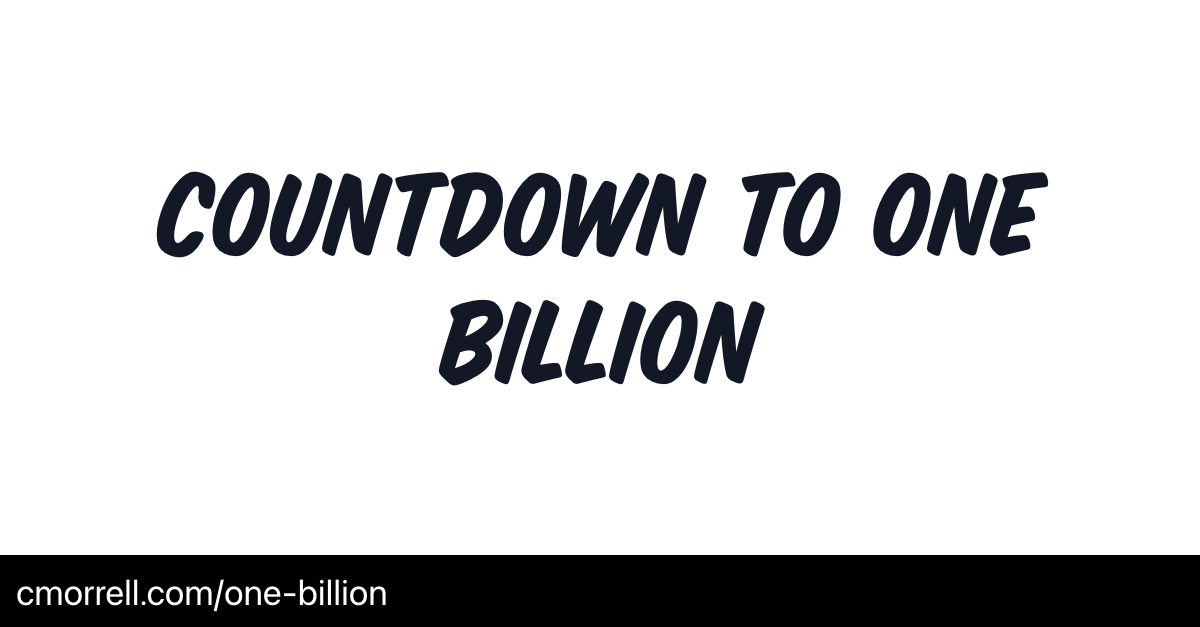
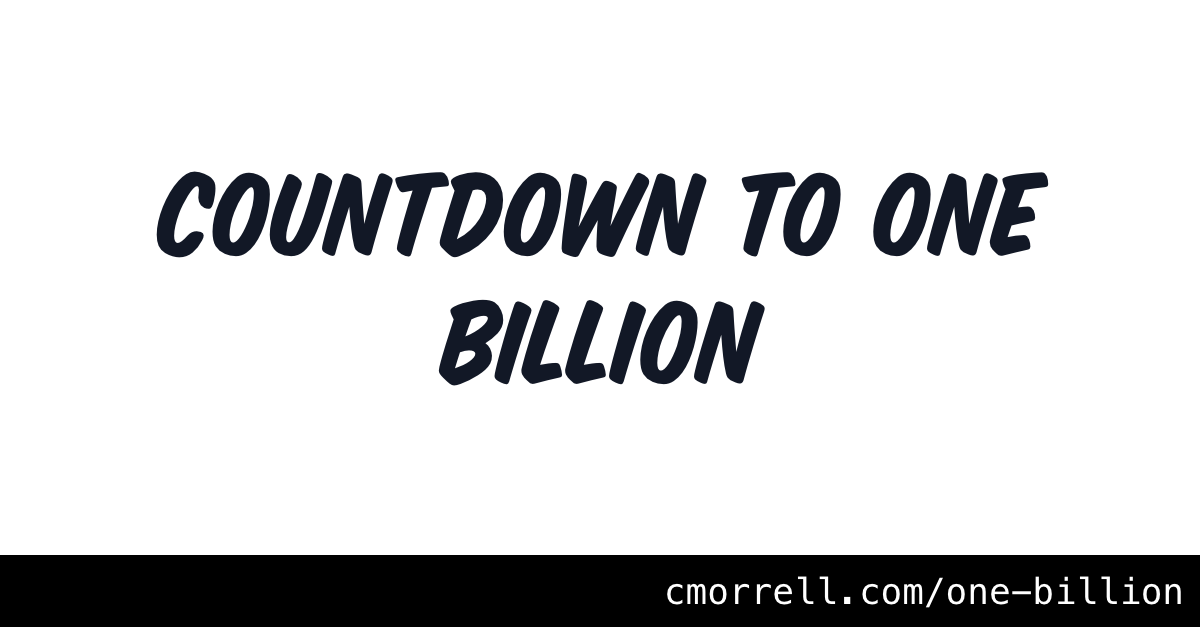
Better open graph

Changed region(s): [[0.555, 0.9091, 0.9867, 0.9697], [0.0, 0.9091, 0.3392, 0.9697]]

diff --git a/resources/views/components/layout.blade.php b/resources/views/components/layout.blade.php
@@ -1,8 +1,10 @@
 @props([
 	'title' => 'Chris Morrell',
-	'og' => null,
+	'ogTitle' => null,
+	'ogDescription' => '',
 ])
-<!DOCTYPE html>
+	
+	<!DOCTYPE html>
 <html lang="{{ str_replace('_', '-', app()->getLocale()) }}">
 <head>
 	<meta charset="utf-8">
@@ -10,77 +12,92 @@
 	<title>{{ $title }}</title>
 	@vite(['resources/css/app.css', 'resources/js/app.js'])
 	<script defer data-domain="cmorrell.com" src="https://plausible.io/js/script.js"></script>
-	{{ $meta ?? null }}
-	@if($og)
-		<meta property="og:url" content="{{ url()->current() }}">
-		<meta property="og:type" content="website">
-		<meta property="og:title" content="{{ $title }}">
-		<meta property="og:image" content="https://cmorrell.com/opengraph/{{ $og }}.png">
-	
-		<meta name="twitter:card" content="summary_large_image">
-		<meta property="twitter:domain" content="cmorrell.com">
-		<meta property="twitter:url" content="{{ url()->current() }}">
-		<meta name="twitter:title" content="{{ $title }}">
-		<meta name="twitter:image" content="https://cmorrell.com/opengraph/{{ $og }}.png">
+	@if($slug)
+		<meta property="og:url" content="{{ url()->current() }}" />
+		<meta property="og:type" content="website" />
+		<meta property="og:title" content="{{ $ogTitle ?? $title }}" />
+		<meta property="og:description" content="{{ $ogDescription }}" />
+		<meta property="og:image" content="https://cmorrell.com/opengraph/{{ $slug }}.png" />
+		<meta name="twitter:card" content="summary_large_image" />
+		<meta property="twitter:domain" content="cmorrell.com" />
+		<meta property="twitter:url" content="{{ url()->current() }}" />
+		<meta name="twitter:title" content="{{ $ogTitle ?? $title }}" />
+		<meta name="twitter:description" content="{{ $ogDescription }}" />
+		<meta name="twitter:image" content="https://cmorrell.com/opengraph/{{ $slug }}.png" />
 	@endif
 </head>
-<body class="antialiased">
-<div class="flex flex-col min-h-screen antialiased">
-	<header class="bg-gray-900 text-white">
-		<div class="container mx-auto p-4 flex items-center">
-			<h1 style="margin: 0">
-				<a href="{{ url('/') }}" class="text-white hover:underline">
-					Chris Morrell
-				</a>
-			</h1>
-			<div class="ml-auto flex -mx-1">
-				<a class="mx-1 no-underline opacity-75 hover:opacity-100"
-				   href="https://rtsn.dev/@chris"
-				   target="_blank"
-				   rel="me"
-				   title="Chris Morrell on Mastodon"
-				>
-					<svg class="h-6 w-6 fill-current" role="img" viewBox="0 0 24 24" xmlns="http://www.w3.org/2000/svg"><title>Mastodon</title>
-						<path d="M23.268 5.313c-.35-2.578-2.617-4.61-5.304-5.004C17.51.242 15.792 0 11.813 0h-.03c-3.98 0-4.835.242-5.288.309C3.882.692 1.496 2.518.917 5.127.64 6.412.61 7.837.661 9.143c.074 1.874.088 3.745.26 5.611.118 1.24.325 2.47.62 3.68.55 2.237 2.777 4.098 4.96 4.857 2.336.792 4.849.923 7.256.38.265-.061.527-.132.786-.213.585-.184 1.27-.39 1.774-.753a.057.057 0 0 0 .023-.043v-1.809a.052.052 0 0 0-.02-.041.053.053 0 0 0-.046-.01 20.282 20.282 0 0 1-4.709.545c-2.73 0-3.463-1.284-3.674-1.818a5.593 5.593 0 0 1-.319-1.433.053.053 0 0 1 .066-.054c1.517.363 3.072.546 4.632.546.376 0 .75 0 1.125-.01 1.57-.044 3.224-.124 4.768-.422.038-.008.077-.015.11-.024 2.435-.464 4.753-1.92 4.989-5.604.008-.145.03-1.52.03-1.67.002-.512.167-3.63-.024-5.545zm-3.748 9.195h-2.561V8.29c0-1.309-.55-1.976-1.67-1.976-1.23 0-1.846.79-1.846 2.35v3.403h-2.546V8.663c0-1.56-.617-2.35-1.848-2.35-1.112 0-1.668.668-1.67 1.977v6.218H4.822V8.102c0-1.31.337-2.35 1.011-3.12.696-.77 1.608-1.164 2.74-1.164 1.311 0 2.302.5 2.962 1.498l.638 1.06.638-1.06c.66-.999 1.65-1.498 2.96-1.498 1.13 0 2.043.395 2.74 1.164.675.77 1.012 1.81 1.012 3.12z" />
-					</svg>
-				</a>
-				<a class="mx-1 no-underline opacity-75 hover:opacity-100"
-				   href="https://twitter.com/inxilpro"
-				   target="_blank"
-				   rel="noopener noreferrer"
-				   title="Chris Morrell on Twitter"
-				>
-					<svg class="h-6 w-6 fill-current" role="img" viewBox="0 0 24 24" xmlns="http://www.w3.org/2000/svg"><title>Twitter</title>
-						<path d="M23.953 4.57a10 10 0 01-2.825.775 4.958 4.958 0 002.163-2.723c-.951.555-2.005.959-3.127 1.184a4.92 4.92 0 00-8.384 4.482C7.69 8.095 4.067 6.13 1.64 3.162a4.822 4.822 0 00-.666 2.475c0 1.71.87 3.213 2.188 4.096a4.904 4.904 0 01-2.228-.616v.06a4.923 4.923 0 003.946 4.827 4.996 4.996 0 01-2.212.085 4.936 4.936 0 004.604 3.417 9.867 9.867 0 01-6.102 2.105c-.39 0-.779-.023-1.17-.067a13.995 13.995 0 007.557 2.209c9.053 0 13.998-7.496 13.998-13.985 0-.21 0-.42-.015-.63A9.935 9.935 0 0024 4.59z" />
-					</svg>
-				</a>
-				<a class="mx-1 no-underline opacity-75 hover:opacity-100"
-				   href="https://github.com/inxilpro/"
-				   target="_blank"
-				   rel="noopener noreferrer"
-				   title="Chris Morrell on Github"
-				>
-					<svg class="h-6 w-6 fill-current" role="img" viewBox="0 0 24 24" xmlns="http://www.w3.org/2000/svg"><title>GitHub</title>
-						<path d="M12 .297c-6.63 0-12 5.373-12 12 0 5.303 3.438 9.8 8.205 11.385.6.113.82-.258.82-.577 0-.285-.01-1.04-.015-2.04-3.338.724-4.042-1.61-4.042-1.61C4.422 18.07 3.633 17.7 3.633 17.7c-1.087-.744.084-.729.084-.729 1.205.084 1.838 1.236 1.838 1.236 1.07 1.835 2.809 1.305 3.495.998.108-.776.417-1.305.76-1.605-2.665-.3-5.466-1.332-5.466-5.93 0-1.31.465-2.38 1.235-3.22-.135-.303-.54-1.523.105-3.176 0 0 1.005-.322 3.3 1.23.96-.267 1.98-.399 3-.405 1.02.006 2.04.138 3 .405 2.28-1.552 3.285-1.23 3.285-1.23.645 1.653.24 2.873.12 3.176.765.84 1.23 1.91 1.23 3.22 0 4.61-2.805 5.625-5.475 5.92.42.36.81 1.096.81 2.22 0 1.606-.015 2.896-.015 3.286 0 .315.21.69.825.57C20.565 22.092 24 17.592 24 12.297c0-6.627-5.373-12-12-12" />
-					</svg>
-				</a>
-			</div>
+@if(app()->isLocal() && 'render' === request('og'))
+	<body class="h-full w-full font-sans text-gray-900 antialiased">
+	
+	<div id="og-image" class="w-[1200px] h-[627px] bg-white mx-auto my-24 flex flex-col">
+		<h1 class="mx-auto text-9xl font-slant flex-1 flex items-center justify-center text-center px-10">
+			{{ str($ogTitle ?? $title)->beforeLast('- Chris Morrell')->trim() }}
+		</h1>
+		<div class="bg-black p-4 text-white font-mono mt-auto text-4xl text-right">
+			cmorrell.com{{ request()->path() === '/' ? '' : '/'.request()->path() }}
 		</div>
-	</header>
-	<main class="flex-1">
-		@if(isset($main) && $main->isNotEmpty())
-			{{ $main }}
-		@else
-			<div class="container mx-auto p-4">
-				{{ $slot }}
+	</div>
+	
+	</body>
+@else
+	<body class="antialiased">
+	<div class="flex flex-col min-h-screen antialiased">
+		<header class="bg-gray-900 text-white">
+			<div class="container mx-auto p-4 flex items-center">
+				<h1 style="margin: 0">
+					<a href="{{ url('/') }}" class="text-white hover:underline">
+						Chris Morrell
+					</a>
+				</h1>
+				<div class="ml-auto flex -mx-1">
+					<a class="mx-1 no-underline opacity-75 hover:opacity-100"
+					   href="https://rtsn.dev/@chris"
+					   target="_blank"
+					   rel="me"
+					   title="Chris Morrell on Mastodon"
+					>
+						<svg class="h-6 w-6 fill-current" role="img" viewBox="0 0 24 24" xmlns="http://www.w3.org/2000/svg"><title>Mastodon</title>
+							<path d="M23.268 5.313c-.35-2.578-2.617-4.61-5.304-5.004C17.51.242 15.792 0 11.813 0h-.03c-3.98 0-4.835.242-5.288.309C3.882.692 1.496 2.518.917 5.127.64 6.412.61 7.837.661 9.143c.074 1.874.088 3.745.26 5.611.118 1.24.325 2.47.62 3.68.55 2.237 2.777 4.098 4.96 4.857 2.336.792 4.849.923 7.256.38.265-.061.527-.132.786-.213.585-.184 1.27-.39 1.774-.753a.057.057 0 0 0 .023-.043v-1.809a.052.052 0 0 0-.02-.041.053.053 0 0 0-.046-.01 20.282 20.282 0 0 1-4.709.545c-2.73 0-3.463-1.284-3.674-1.818a5.593 5.593 0 0 1-.319-1.433.053.053 0 0 1 .066-.054c1.517.363 3.072.546 4.632.546.376 0 .75 0 1.125-.01 1.57-.044 3.224-.124 4.768-.422.038-.008.077-.015.11-.024 2.435-.464 4.753-1.92 4.989-5.604.008-.145.03-1.52.03-1.67.002-.512.167-3.63-.024-5.545zm-3.748 9.195h-2.561V8.29c0-1.309-.55-1.976-1.67-1.976-1.23 0-1.846.79-1.846 2.35v3.403h-2.546V8.663c0-1.56-.617-2.35-1.848-2.35-1.112 0-1.668.668-1.67 1.977v6.218H4.822V8.102c0-1.31.337-2.35 1.011-3.12.696-.77 1.608-1.164 2.74-1.164 1.311 0 2.302.5 2.962 1.498l.638 1.06.638-1.06c.66-.999 1.65-1.498 2.96-1.498 1.13 0 2.043.395 2.74 1.164.675.77 1.012 1.81 1.012 3.12z" />
+						</svg>
+					</a>
+					<a class="mx-1 no-underline opacity-75 hover:opacity-100"
+					   href="https://twitter.com/inxilpro"
+					   target="_blank"
+					   rel="noopener noreferrer"
+					   title="Chris Morrell on Twitter"
+					>
+						<svg class="h-6 w-6 fill-current" role="img" viewBox="0 0 24 24" xmlns="http://www.w3.org/2000/svg"><title>Twitter</title>
+							<path d="M23.953 4.57a10 10 0 01-2.825.775 4.958 4.958 0 002.163-2.723c-.951.555-2.005.959-3.127 1.184a4.92 4.92 0 00-8.384 4.482C7.69 8.095 4.067 6.13 1.64 3.162a4.822 4.822 0 00-.666 2.475c0 1.71.87 3.213 2.188 4.096a4.904 4.904 0 01-2.228-.616v.06a4.923 4.923 0 003.946 4.827 4.996 4.996 0 01-2.212.085 4.936 4.936 0 004.604 3.417 9.867 9.867 0 01-6.102 2.105c-.39 0-.779-.023-1.17-.067a13.995 13.995 0 007.557 2.209c9.053 0 13.998-7.496 13.998-13.985 0-.21 0-.42-.015-.63A9.935 9.935 0 0024 4.59z" />
+						</svg>
+					</a>
+					<a class="mx-1 no-underline opacity-75 hover:opacity-100"
+					   href="https://github.com/inxilpro/"
+					   target="_blank"
+					   rel="noopener noreferrer"
+					   title="Chris Morrell on Github"
+					>
+						<svg class="h-6 w-6 fill-current" role="img" viewBox="0 0 24 24" xmlns="http://www.w3.org/2000/svg"><title>GitHub</title>
+							<path d="M12 .297c-6.63 0-12 5.373-12 12 0 5.303 3.438 9.8 8.205 11.385.6.113.82-.258.82-.577 0-.285-.01-1.04-.015-2.04-3.338.724-4.042-1.61-4.042-1.61C4.422 18.07 3.633 17.7 3.633 17.7c-1.087-.744.084-.729.084-.729 1.205.084 1.838 1.236 1.838 1.236 1.07 1.835 2.809 1.305 3.495.998.108-.776.417-1.305.76-1.605-2.665-.3-5.466-1.332-5.466-5.93 0-1.31.465-2.38 1.235-3.22-.135-.303-.54-1.523.105-3.176 0 0 1.005-.322 3.3 1.23.96-.267 1.98-.399 3-.405 1.02.006 2.04.138 3 .405 2.28-1.552 3.285-1.23 3.285-1.23.645 1.653.24 2.873.12 3.176.765.84 1.23 1.91 1.23 3.22 0 4.61-2.805 5.625-5.475 5.92.42.36.81 1.096.81 2.22 0 1.606-.015 2.896-.015 3.286 0 .315.21.69.825.57C20.565 22.092 24 17.592 24 12.297c0-6.627-5.373-12-12-12" />
+						</svg>
+					</a>
+				</div>
 			</div>
-		@endif
-	</main>
-	<footer class="bg-gray-100">
-		<div class="container mx-auto p-4 py-8 pb-12 text-sm text-gray-700">
-			&copy; 1997–{{ now()->year }} Chris Morrell
-		</div>
-	</footer>
-</div>
-</body>
+		</header>
+		<main class="flex-1">
+			@if(isset($main) && $main->isNotEmpty())
+				{{ $main }}
+			@else
+				<div class="container mx-auto p-4">
+					{{ $slot }}
+				</div>
+			@endif
+		</main>
+		<footer class="bg-gray-100">
+			<div class="container mx-auto p-4 py-8 pb-12 text-sm text-gray-700">
+				&copy; 1997–{{ now()->year }} Chris Morrell
+			</div>
+		</footer>
+	</div>
+	</body>
+@endif
 </html>

diff --git a/app/Console/Commands/GenerateOpenGraphImagesCommand.php b/app/Console/Commands/GenerateOpenGraphImagesCommand.php
@@ -7,6 +7,9 @@ use Facebook\WebDriver\Remote\DesiredCapabilities;
 use Facebook\WebDriver\Remote\RemoteWebDriver;
 use Facebook\WebDriver\WebDriverBy;
 use Illuminate\Console\Command;
+use Illuminate\Routing\Route;
+use Illuminate\Routing\Router;
+use Illuminate\Support\Str;
 use Throwable;
 
 class GenerateOpenGraphImagesCommand extends Command
@@ -23,14 +26,11 @@ class GenerateOpenGraphImagesCommand extends Command
 			$this->quit();
 		});
 		
+		$routes = app(Router::class)->getRoutes();
+		
 		try {
-			$slugs = [
-				'one-billion' => 'Countdown to One Billion',
-				'php-fpm' => 'Tuning dynamic php-fpm settings',
-			];
-			
-			foreach ($slugs as $slug => $title) {
-				$this->screenShotOpenGraphImage($title, $slug);
+			foreach ($routes as $route) {
+				$this->screenShotOpenGraphImage($route);
 			}
 		} finally {
 			$this->quit();
@@ -39,10 +39,16 @@ class GenerateOpenGraphImagesCommand extends Command
 		return 0;
 	}
 	
-	protected function screenShotOpenGraphImage(string $title, string $slug): string
+	protected function screenShotOpenGraphImage(Route $route): string
 	{
-		$url = url('/opengraph?'.http_build_query(['title' => $title, 'url' => "cmorrell.com/{$slug}"]));
-		$path = public_path("/opengraph/{$slug}.png");
+		$url = url($route->uri().'?og=render');
+		$path = ltrim(parse_url($route->uri(), PHP_URL_PATH), '/');
+		$slug = match ($path) {
+			'' => 'home',
+			default => Str::slug(strtolower($path)),
+		};
+		
+		$filename = public_path("/opengraph/{$slug}.png");
 		
 		$this->info($url);
 		
@@ -52,9 +58,9 @@ class GenerateOpenGraphImagesCommand extends Command
 			$this->driver->wait()
 				->until(fn(RemoteWebDriver $driver) => $driver->executeScript('return `complete` === document.readyState'));
 			
-			$this->driver->findElement(WebDriverBy::id('og-image'))->takeElementScreenshot($path);
+			$this->driver->findElement(WebDriverBy::id('og-image'))->takeElementScreenshot($filename);
 			
-			$this->info($path);
+			$this->info($filename);
 		} catch (Throwable $exception) {
 			$this->error($exception->getMessage());
 		}

diff --git a/app/Providers/AppServiceProvider.php b/app/Providers/AppServiceProvider.php
@@ -3,7 +3,10 @@
 namespace App\Providers;
 
 use App\Support\TorchlightManager;
+use Illuminate\Contracts\Support\DeferringDisplayableValue;
+use Illuminate\Support\Facades\View;
 use Illuminate\Support\ServiceProvider;
+use Illuminate\Support\Str;
 use Torchlight\Manager;
 
 class AppServiceProvider extends ServiceProvider
@@ -19,6 +22,19 @@ class AppServiceProvider extends ServiceProvider
 			$this->app->singleton(Manager::class, function() {
 				return new TorchlightManager();
 			});
+		});
+		
+		View::share('slug', new class implements DeferringDisplayableValue
+		{
+			public function resolveDisplayableValue()
+			{
+				$path = trim(request()->path(), '/');
+				
+				return match ($path) {
+					'' => 'home',
+					default => Str::slug(strtolower($path)),
+				};
+			}
 		});
 	}
 }

diff --git a/resources/views/pages/one-billion.blade.php b/resources/views/pages/one-billion.blade.php
@@ -1,6 +1,6 @@
 @php $downloads = app(\App\Http\Downloads::class)(); @endphp
 
-<x-layout title="Countdown to One Billion - Chris Morrell" og="one-billion">
+<x-layout title="Countdown to One Billion - Chris Morrell" og-title="Countdown to One Billion">
 	<h1 class="text-5xl lg:text-6xl font-bold font-slant text-gray-800">
 		Countdown to One Billion.
 	</h1>

diff --git a/resources/views/pages/laravel-relationships.blade.php b/resources/views/pages/laravel-relationships.blade.php
@@ -1,6 +1,6 @@
-<x-layout>
+<x-layout title="Digging into Laravel Relationships">
 	<h1 class="text-5xl lg:text-6xl font-bold font-slant text-gray-800">
-		Digging into Laravel relationships
+		Digging into Laravel Relationships
 	</h1>
 	
 	<div class="bg-blue-100 p-4 border border-blue-200 rounded my-4 flex items-center">

diff --git a/resources/views/pages/a-tale-of-two-methodologies.blade.php b/resources/views/pages/a-tale-of-two-methodologies.blade.php
@@ -1,4 +1,4 @@
-<x-layout>
+<x-layout title="A Tale of Two Methodologies">
 	<x-slot:main>
 		<div class="container mx-auto p-4">
 			<h1 class="text-5xl text-center font-bold font-slant text-gray-800 mb-6 sm:text-left lg:text-6xl">
